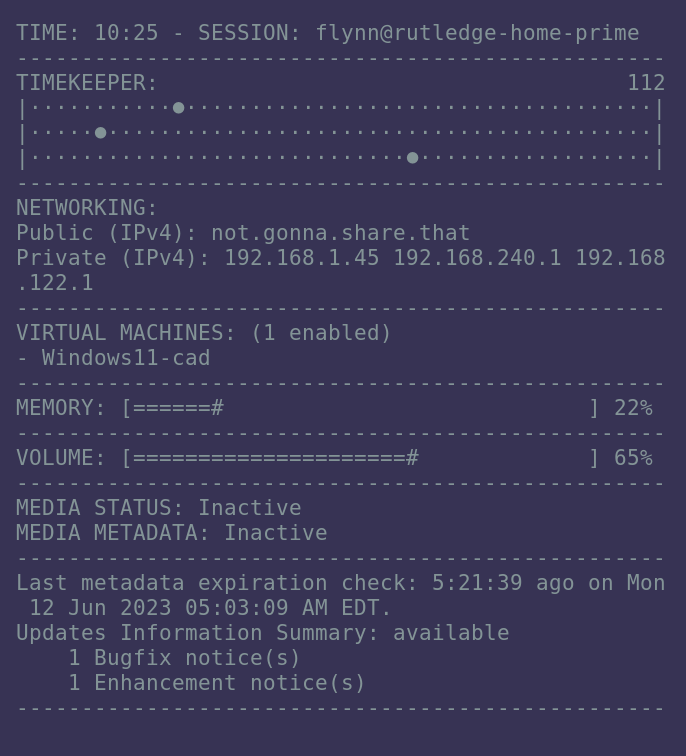
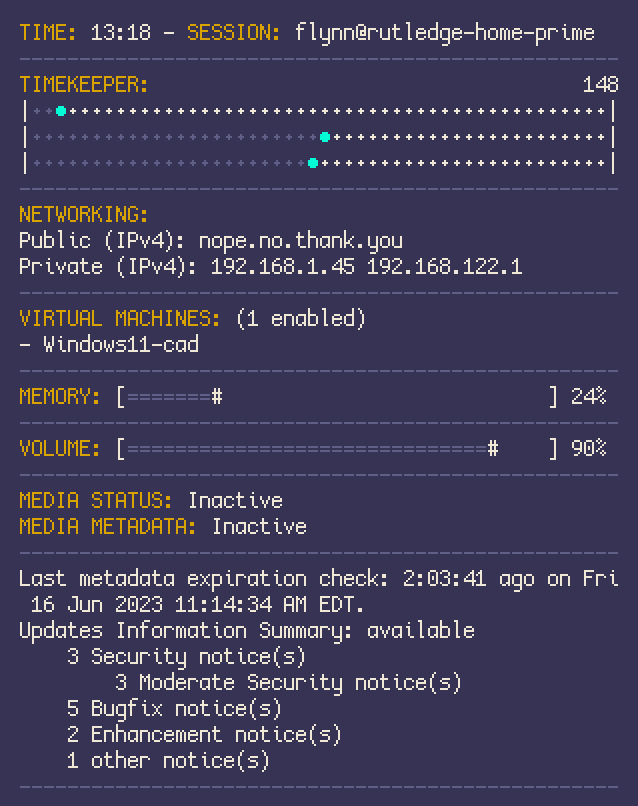
Added color (and NO_COLOR) support. Updated README. Inline doc improvements

diff --git a/README.md b/README.md
@@ -49,6 +49,12 @@ your_terminal_app ./PATH_TO_STATMAN/statman.sh >/dev/null 2>&1 &
 
 > **Important!** Please configure your terminal/window manager of choice (likely using a custom config) so it renders the window without decorations. Having it show up as a normal window will not allow it to work as intended. If you're looking for a good Wayland emulator, foot is a good once. I've also included a custom config for foot in the examples directory
 
+#### Disabling color output
+
+Some people (many people) don't want color codes in their terminal output. Statman complies with the [`NO_COLOR` env rule](https://no-color.org/) to ensure that built-ins and default scripts aren't using color codes.
+
+If the environment has this (or the script is started with the flag passed), the default `co` helper will not set any color codes. 
+
 ## Customizing
 
 ### Before you customize
@@ -75,12 +81,20 @@ cat "$o/some-name"
 
 This will attach the memstore output of `some-name` to the output of statman.
 
-### Command helpers
+### Command helpers and variables
 
 - `$columns` is available in each `/every` script, and represents the current width of the terminal according to `tput`. This is helpful if you want text or elements to change if you decide you want the statman instance to render larger or smaller.
-- `bar [char_width] [percent_as_decimal]` is a progress-bar helper that will render a floating point percentage into a text-based progress bar. This is useful for monitoring resources like CPU, memory, or every things like volume.
+- `bar [char_width] [percent_as_decimal]` is a progress-bar helper that will render a floating point percentage into a text-based progress bar. This is useful for monitoring resources like CPU, memory, or every things like volume. My default `/every` scripts have examples of how this is used.
+- `line [character]` will render a line the same width of the terminal, using a specific character
+- `separator` will render a simple dash-based boundary - intended to help make various outputs more distinct
 
-My default `/every` scripts have examples of how this is used.
+#### Adding color
+
+- `co [color_code]` sets the terminal to a 64 color code using the `tput setaf [code]` command. If `NO_COLOR` is present in the env, then `co` will do nothing and not alter color codes.
+- `cor` - resets the the terminal color to the default color. If `NO_COLOR` is present in the env, then it wont make any changes to output.
+- `$co_label` - Is the variable alias for color code for labels
+- `$co_emphasis` - Is the variable alias for the default color code for emphasis (intended for things like cursors, tallies)
+- `$co_fade` - Is the variable alias for the color codes for faded text (intended for things like separators, boundaries, and less important text)
 
 ## Security considerations (and other things you should know)
 - `/dev/shm` is a user writable share in most linux distributions. When a sub directory is created for the statman init sequence, the directory is created using default folder permissions for that user. **This means that any users belonging to the correct groups, or if user
